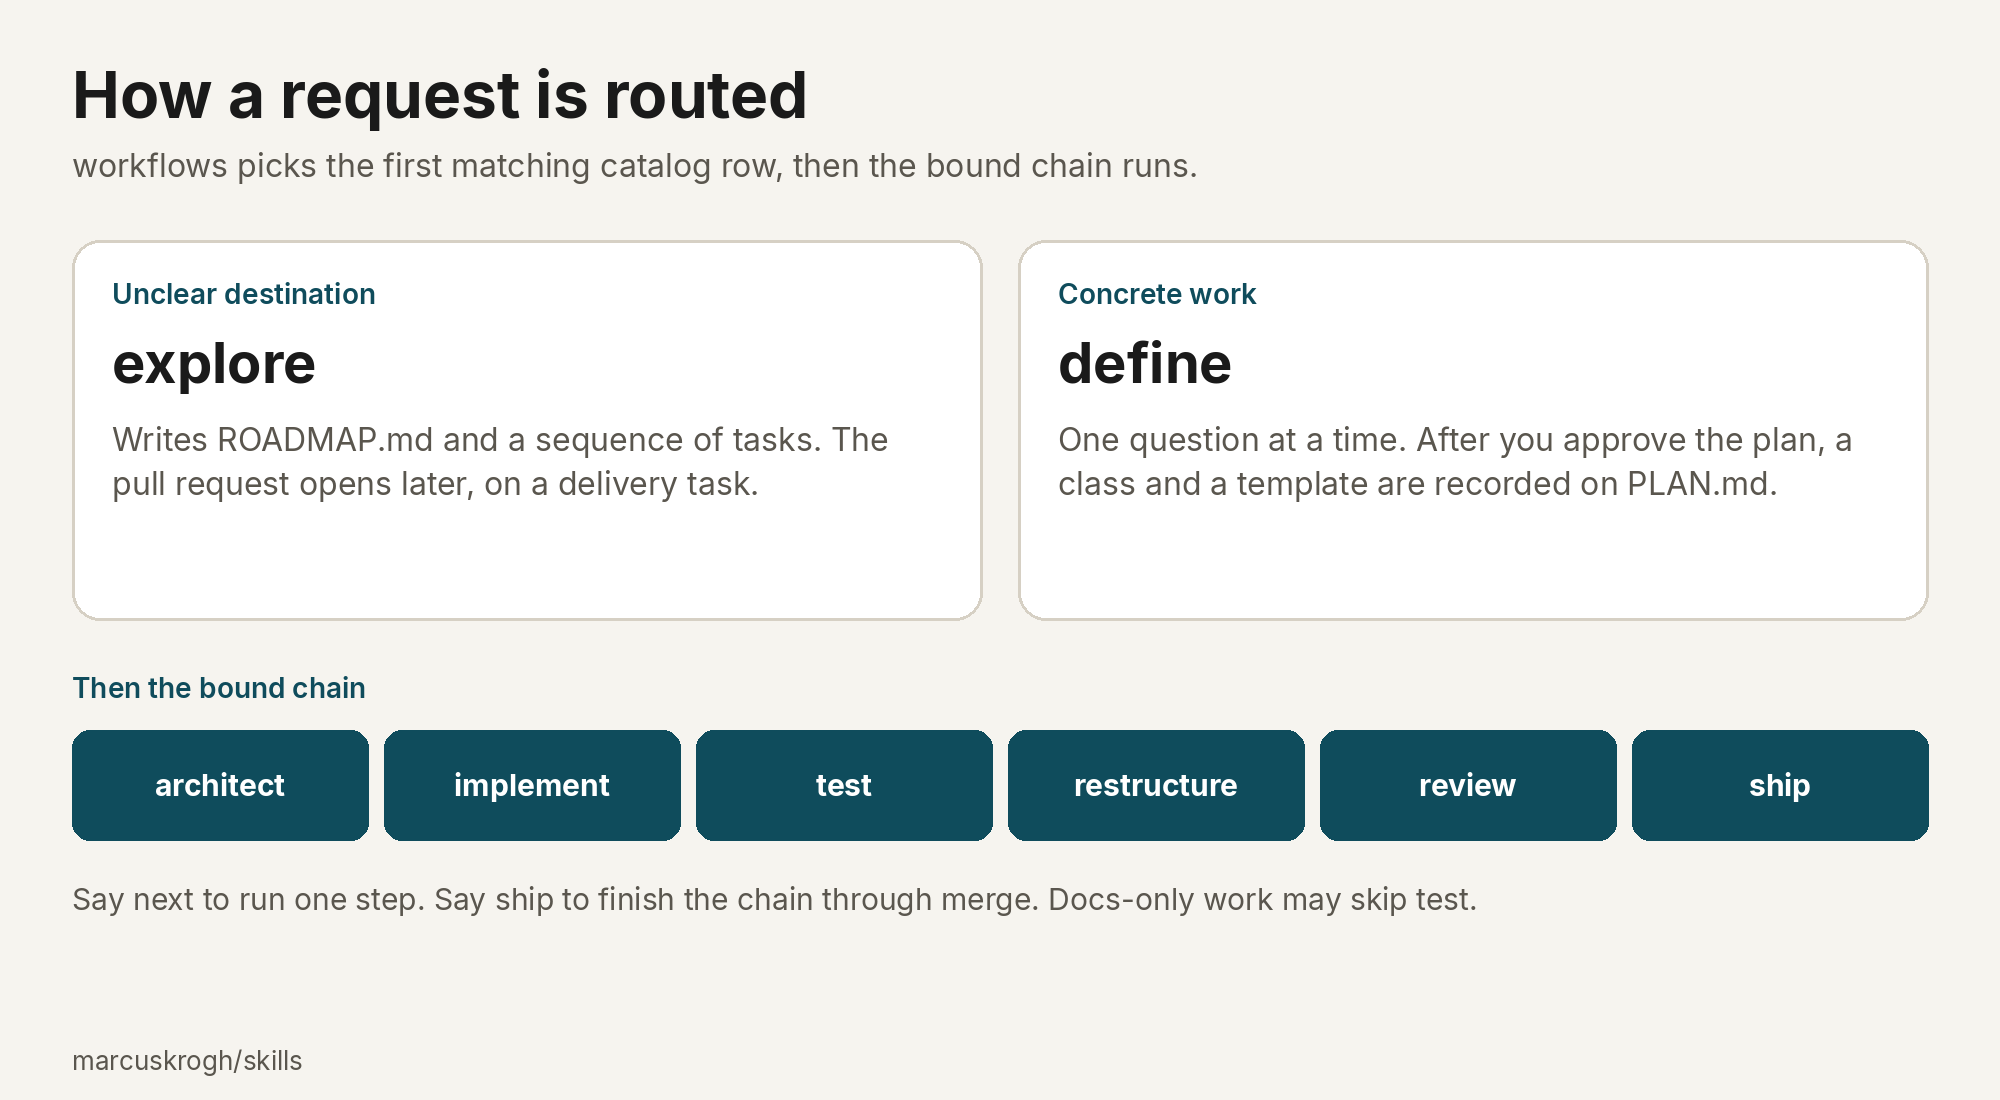
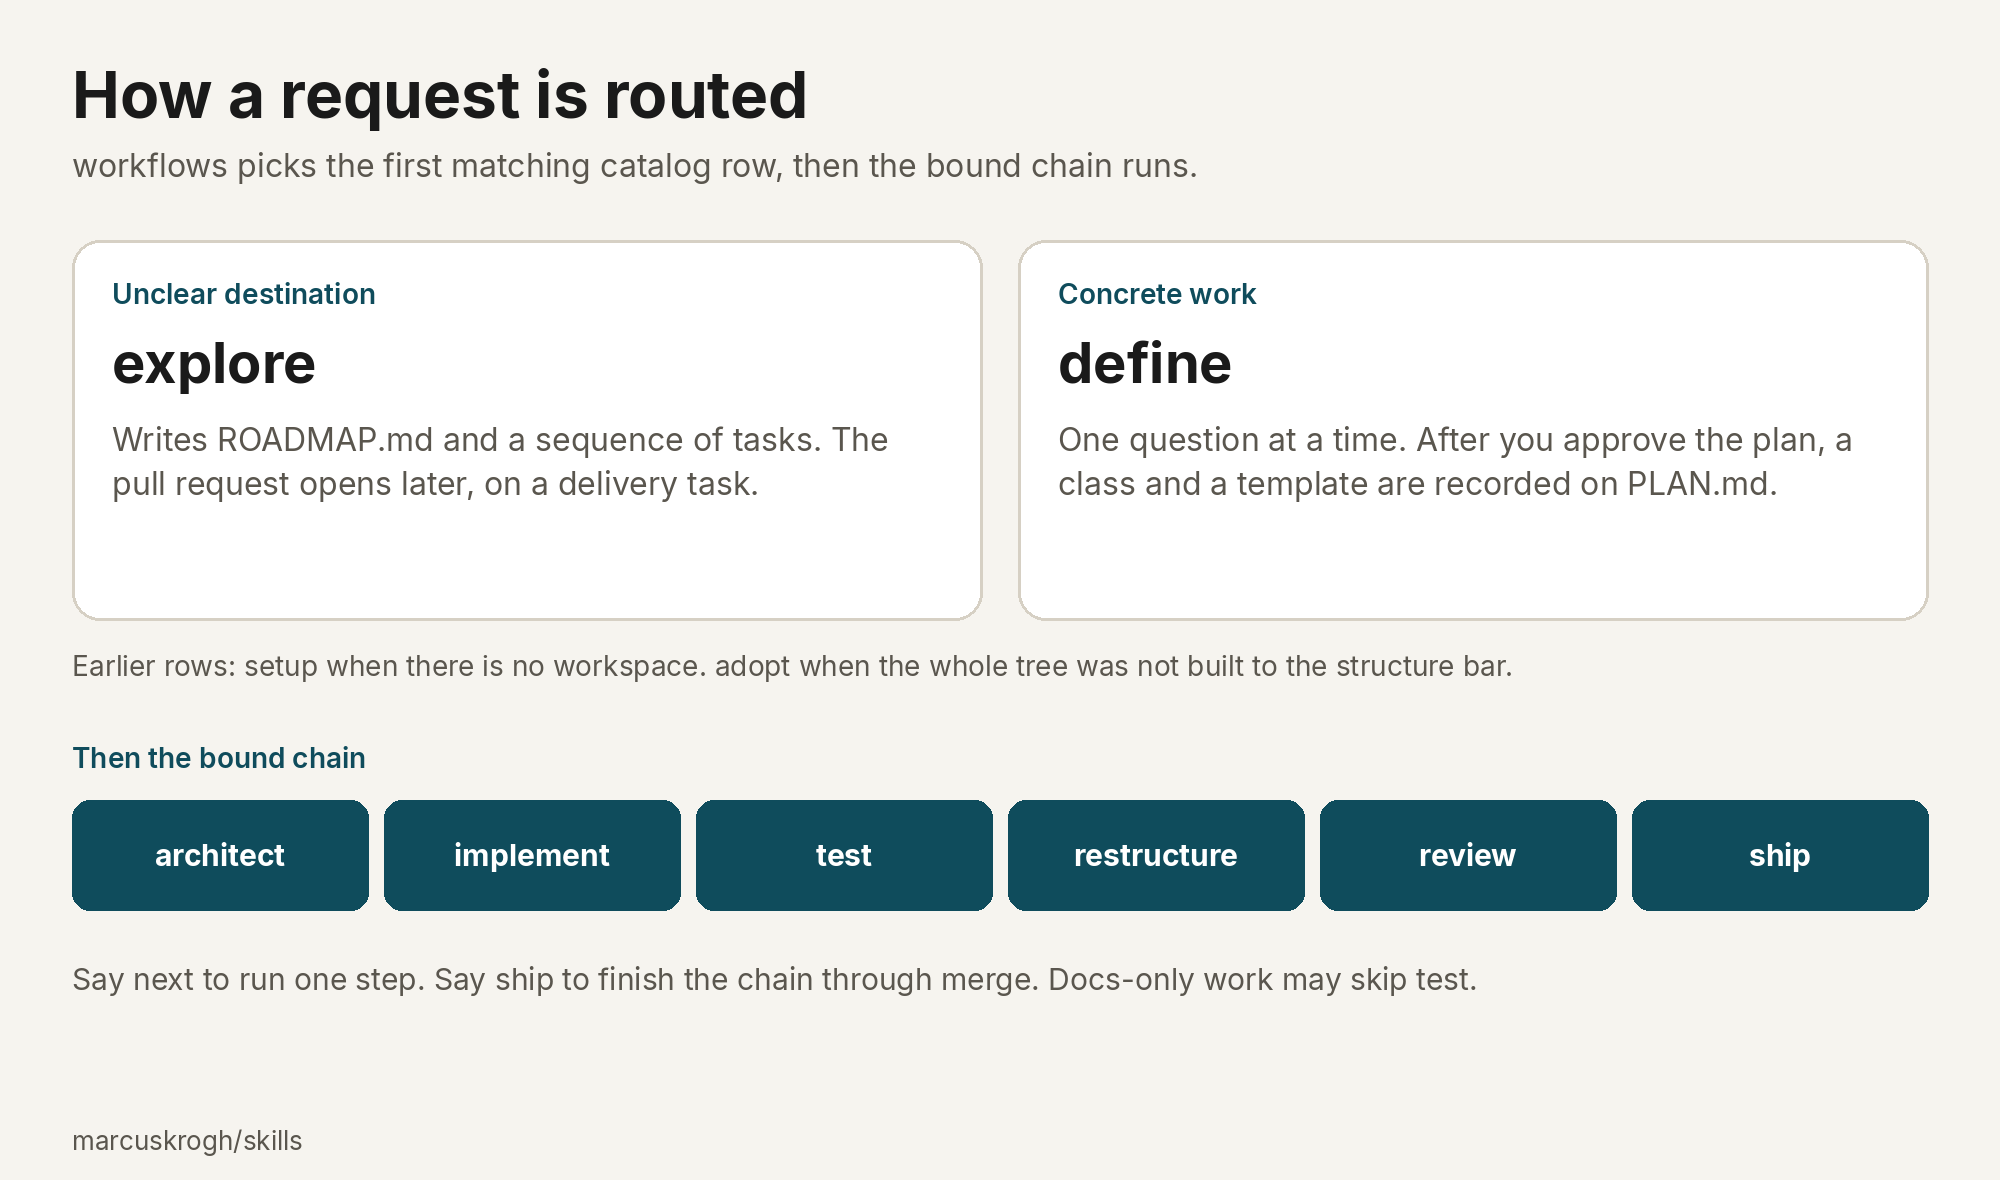
Align the front page with the catalog after review.
Name setup and adopt before define, keep the full install confirm, and leave the script list in the structure chapter.

diff --git a/docs/guide/install.md b/docs/guide/install.md
@@ -149,8 +149,7 @@ After agent-from-git, startup sync, or `install-to-project`, check `.agents/skil
 1. Open the consuming project in Cursor, Claude Code, Codex, Copilot, or another compatible harness.
 2. Confirm `.agents/skills/workflows/SKILL.md` exists.
 3. If neither `docs/agents/WORKSPACE.md` nor `~/.agents/WORKSPACE.md` exists, run `/setup` before delivery work. Pipeline skills stop and ask for setup when neither layer resolves (unless you explicitly say to proceed with defaults, in which case setup still writes a workspace file before creating issues). See [`setup/format.md`](../../skills/setup/format.md).
-4. Describe the work, or say `/help` if you only want the map.
-5. An unclear destination matches explore. Concrete work (a bug, a tweak, a refine, a rework, or a feature) matches define.
+4. Describe the work, or say `/help` if you only want the map. What happens next is on the [front page](../../README.md#what-it-does).
 
 ### Workspace scopes
 
@@ -163,7 +162,7 @@ After agent-from-git, startup sync, or `install-to-project`, check `.agents/skil
 
 Resolution order is in [`setup/format.md`](../../skills/setup/format.md). Repository fields override global fields one by one. Language is not a workspace field. A repo install writes the language extract into `AGENTS.md`, `CLAUDE.md`, and `.cursor/rules/github-skills.mdc`.
 
-Global scope plus `Artifact location: external` runs the pipeline without adding agent files to a consuming repo. Artifact full content is pushed into the tracker issue. Only the code change lands in the repo, on the task's delivery branch and pull request.
+Global scope plus artifact location `external` writes pipeline artifacts under the external artifact root and pushes their full content into the tracker issue. The sandbox isolation tree (default `sandbox/`) stays on the delivery branch. `SANDBOX.md` follows the artifact location. See [`setup/format.md`](../../skills/setup/format.md).
 
 ### Tracker credentials
 
@@ -189,7 +188,7 @@ Published credential list:
 
 This page does not invent a mapping from `JIRA_BASE_URL` to format.md's Site. Use format.md when filling `WORKSPACE.md`. Use the published credential list above for what each provider needs. If setup asks for Site, that is the workspace field.
 
-`review` and `ship` also need an authenticated `gh` CLI for pull requests.
+`review` and `ship` need an authenticated `gh` CLI and tracker auth.
 
 ## Author machine (this repository)
 
@@ -252,21 +251,7 @@ Writes `.agents/sync-skills.sh` and gitignores `.agents/skills/`. For Cursor Clo
 
 ## Scripts
 
-| Script | Purpose |
-|--------|---------|
-| `install-from-git.sh` | Canonical agent/project install from git |
-| `setup.ps1` | Author setup: validate, sync local homes, git hooks |
-| `sync-local.ps1` / `sync-local.sh` | Mirror `skills/` into local agent homes |
-| `install-to-project.ps1` | Copy skills into a project's `.agents/skills` |
-| `validate-skills.ps1` | Frontmatter, naming, plugin.json coverage, concepts |
-| `setup-project-sync.ps1` | Wire startup sync (optional `-WireCursorCloud`) |
-| `templates/project-sync/sync-skills.sh` | Startup sync to `.agents/skills/` plus `.skills-version` |
-| `templates/agent-install/` | Consumer `AGENTS.md` block, Cursor rule, global language pointers |
-| `setup-github.ps1` | First-time push to GitHub |
-| `arxiv_research.py` | arXiv search, lookup, and snowball for `/research` |
-| `test_pipelines.py` | Checks workflow transitions in `pipelines.md` and that independent skills do not name a successor |
-
-The same list, with the repository tree, is in [Structure](structure.md).
+The script list and the template files live in [Structure](structure.md#scripts).
 
 ## Related pages
 

diff --git a/README.md b/README.md
@@ -51,6 +51,8 @@ Commit those four paths. Confirm:
 ```bash
 test -f .agents/skills/.skills-version
 test -f .agents/skills/workflows/SKILL.md
+test -d .agents/skills/concepts
+grep -q 'marcuskrogh/skills:begin' AGENTS.md
 ```
 
 Pinning, skills.sh, the Claude Code plugin, updates, author setup, and project sync are in [Install](docs/guide/install.md).
@@ -61,7 +63,9 @@ After install, describe the work, or name a skill (`/define`, `/help`). An unnam
 
 ![How a request is routed](docs/guide/readme-how-you-use-it.png)
 
-Concrete work (a bug, a tweak, a refine, a rework, or a feature) goes through [`define`](skills/define/SKILL.md). Define asks one question at a time until scope, behaviour, constraints, and pass criteria are settled. You approve the plan. A short description starts that interview. It does not approve the plan. Define then records a class and a template on `PLAN.md`, and opens one task, one branch, and one pull request.
+If there is no usable `WORKSPACE.md`, the first row is [`setup`](skills/setup/SKILL.md). A whole tree that was not built to the structure bar matches [`adopt`](skills/adopt/SKILL.md) before define.
+
+Concrete work (a bug, a tweak, a refine, a rework, or a feature) goes through [`define`](skills/define/SKILL.md). Define asks one question at a time until scope, behaviour, constraints, and pass criteria are settled. You approve the plan. A short description starts that interview. It does not approve the plan. Define then records a class and a template on `PLAN.md`, and opens one task, one branch, and one draft pull request.
 
 An unclear destination goes through [`explore`](skills/explore/SKILL.md). Explore writes `ROADMAP.md` and a sequence of tasks. The delivery pull request opens later, on a delivery task.
 

diff --git a/docs/agents/issues/MD-1.md b/docs/agents/issues/MD-1.md
@@ -7,7 +7,7 @@
 | Parent | |
 | Children | MD-2 |
 | Artifact | docs/agents/PLAN.md |
-| PR | |
+| PR | https://github.com/marcuskrogh/skills/pull/64 |
 | Created | 2026-10-03 |
 
 ## Summary
@@ -47,5 +47,9 @@ Front page, guide alignment, and three images under `docs/guide/` are on the bra
 
 Touched pages are the front page and the guide chapters it links. No executable behaviour. No catalog breach to extract: the long install material is the install chapter, and the front page stays the short presentation. Outcome `ready`. Next: `/review MD-1` — focused review of the docs diff.
 
+### 2026-10-03 review
+
+Focused review, sequential. Core and Architecture should-fix items are fixed on this branch: full install confirm, draft pull request, setup and adopt called out before define, external artifact location aligned with `setup/format.md`, `gh` plus tracker auth, scripts table kept in Structure, first-use routing left on the front page. Discarded: a help choose-one exception to the Next block. Help's overview reply still ends with Next. The handoff rule on the front page stays. Depth `focused`. Lasers `sequential`. Outcome `CLEAN`. Next: `/ship MD-1` — merge after closeout.
+
 ## Next
-`/review MD-1` — focused review of the docs diff
+`/ship MD-1` — merge after closeout

diff --git a/docs/guide/structure.md b/docs/guide/structure.md
@@ -64,7 +64,7 @@ Those files tell the harness to load [`workflows`](../../skills/workflows/SKILL.
 
 ## `scripts/`
 
-| Script | Purpose (from README and script headers) |
+| Script | Purpose (from script headers) |
 |--------|------------------------------------------|
 | `install-from-git.sh` | Canonical consuming-project install from git |
 | `setup.ps1` | Author setup: validate, sync local homes, git hooks |

diff --git a/docs/agents/ISSUES.md b/docs/agents/ISSUES.md
@@ -2,5 +2,5 @@
 
 | Key | Type | Title | Status | Parent | Next |
 |-----|------|-------|--------|--------|------|
-| MD-1 | Task | Presentation front page | In Review | | `/review MD-1` |
+| MD-1 | Task | Presentation front page | In Review | | `/ship MD-1` |
 | MD-2 | Sub-task | Rewrite the front page and align chapters | Done | MD-1 | |

diff --git a/docs/agents/issues/INDEX.md b/docs/agents/issues/INDEX.md
@@ -2,5 +2,5 @@
 
 | Key | Type | Title | Status | Parent | Next |
 |-----|------|-------|--------|--------|------|
-| MD-1 | Task | Presentation front page | In Review | | `/review MD-1` |
+| MD-1 | Task | Presentation front page | In Review | | `/ship MD-1` |
 | MD-2 | Sub-task | Rewrite the front page and align chapters | Done | MD-1 | |

diff --git a/docs/agents/PLAN.md b/docs/agents/PLAN.md
@@ -62,6 +62,6 @@
 - Task: MD-1
 - Sub-tasks: MD-2
 - Branch: cursor/readme-presentation-ac69
-- PR: (opened with this plan)
+- PR: https://github.com/marcuskrogh/skills/pull/64
 - Classification: refine
 - Workflow: structure-safe

diff --git a/docs/agents/issues/MD-2.md b/docs/agents/issues/MD-2.md
@@ -7,7 +7,7 @@
 | Parent | MD-1 |
 | Children | |
 | Artifact | docs/agents/PLAN.md |
-| PR | |
+| PR | https://github.com/marcuskrogh/skills/pull/64 |
 | Created | 2026-10-03 |
 
 ## Summary
